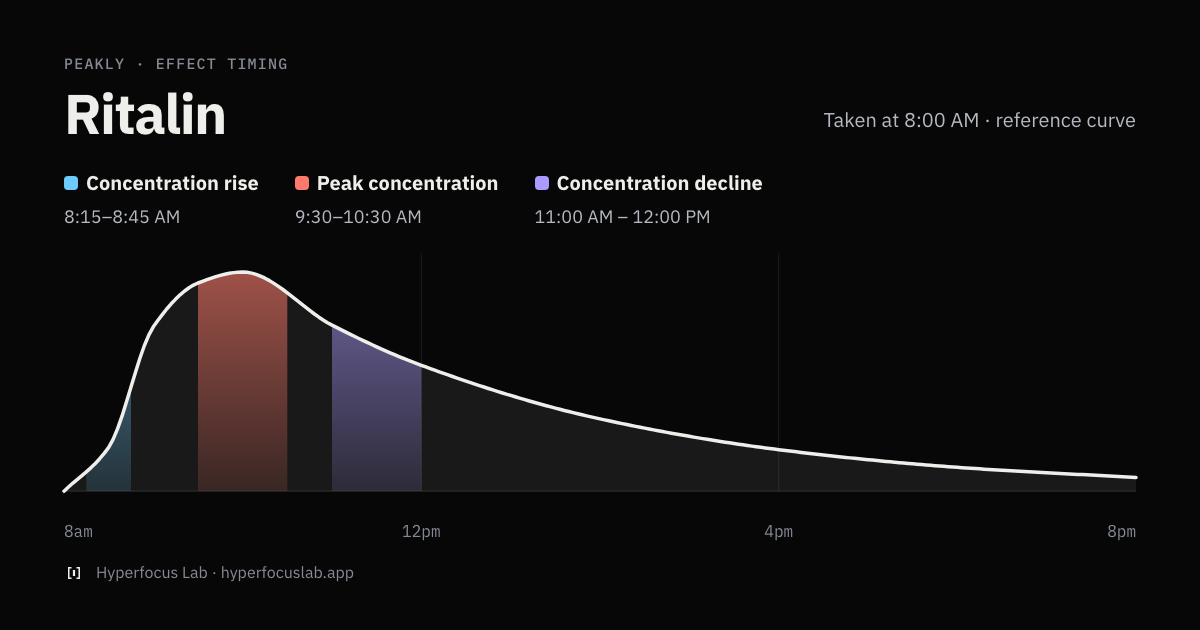
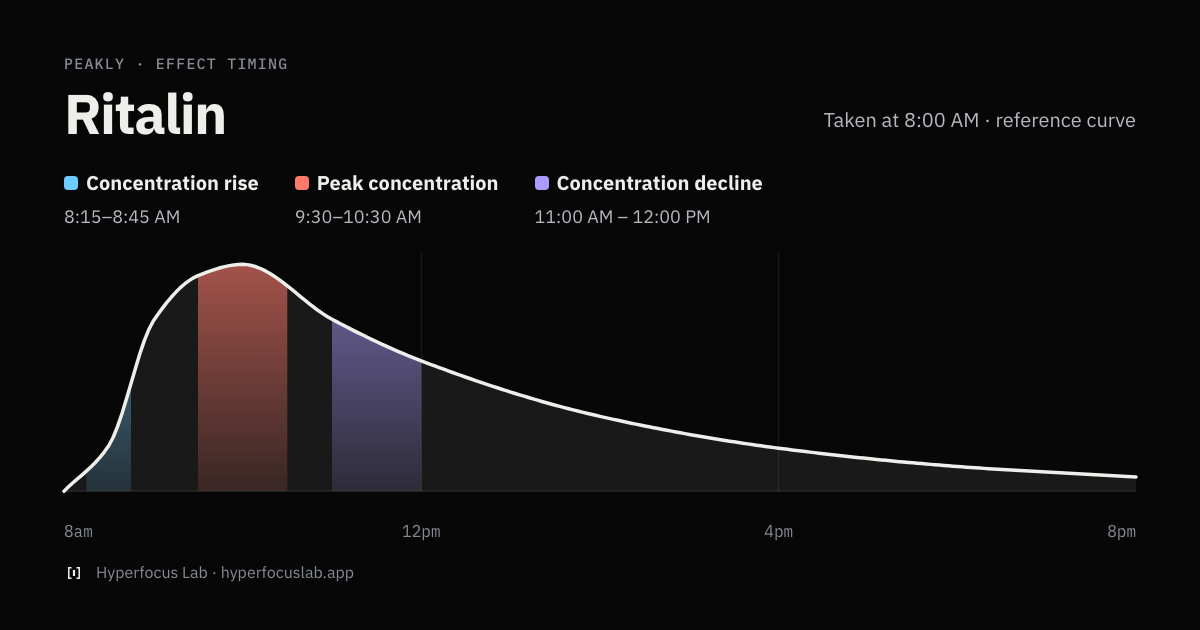
Peakly timing: 5% headroom above the peak, as the app's y domain 0...1.05
Every app chart (Concerta, Medikinet and the shared reference chart) scales y to
0...1.05; the web chart left 8%, so its peak sat a little lower. Share cards
re-rendered.

diff --git a/src/lib/timing.ts b/src/lib/timing.ts
@@ -465,7 +465,8 @@ function esc(s: string): string {
   return s.replace(/&/g, '&amp;').replace(/</g, '&lt;').replace(/>/g, '&gt;').replace(/"/g, '&quot;');
 }
 
-const TOP = 80; // headroom above the peak in viewBox units (of 1000)
+// Headroom above the peak in viewBox units (of 1000): the app's y domain is 0...1.05 on every chart.
+const TOP = 1000 * (0.05 / 1.05);
 function sx(hour: number, end: number): number {
   return (hour / end) * 1000;
 }
